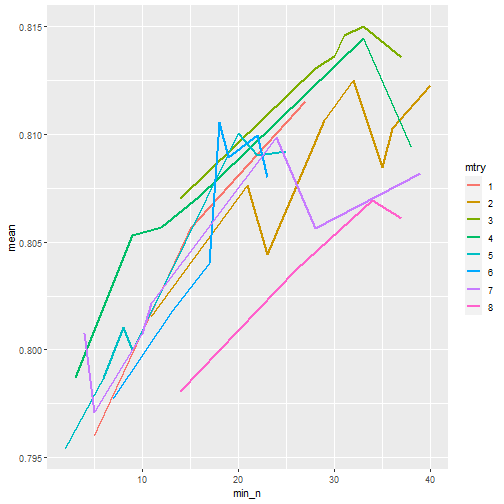
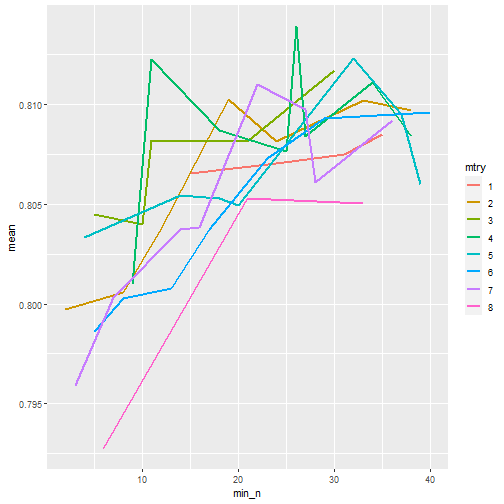
seed

diff --git a/DataMining.html b/DataMining.html
@@ -1335,6 +1335,7 @@ folds
 
 
 ```r
+set.seed(345)
 rf_res &lt;- 
   rf_wflow %&gt;% 
   tune_grid(
@@ -1368,57 +1369,57 @@ rf_res %&gt;%
 &lt;tbody&gt;
   &lt;tr&gt;
    &lt;td style="text-align:right;"&gt; 1 &lt;/td&gt;
-   &lt;td style="text-align:right;"&gt; 5 &lt;/td&gt;
-   &lt;td style="text-align:left;"&gt; roc_auc &lt;/td&gt;
-   &lt;td style="text-align:left;"&gt; binary &lt;/td&gt;
-   &lt;td style="text-align:right;"&gt; 0.7960322 &lt;/td&gt;
-   &lt;td style="text-align:right;"&gt; 10 &lt;/td&gt;
-   &lt;td style="text-align:right;"&gt; 0.0249657 &lt;/td&gt;
-  &lt;/tr&gt;
-  &lt;tr&gt;
-   &lt;td style="text-align:right;"&gt; 1 &lt;/td&gt;
    &lt;td style="text-align:right;"&gt; 15 &lt;/td&gt;
    &lt;td style="text-align:left;"&gt; roc_auc &lt;/td&gt;
    &lt;td style="text-align:left;"&gt; binary &lt;/td&gt;
-   &lt;td style="text-align:right;"&gt; 0.8056520 &lt;/td&gt;
+   &lt;td style="text-align:right;"&gt; 0.8065088 &lt;/td&gt;
    &lt;td style="text-align:right;"&gt; 10 &lt;/td&gt;
-   &lt;td style="text-align:right;"&gt; 0.0231613 &lt;/td&gt;
+   &lt;td style="text-align:right;"&gt; 0.0237202 &lt;/td&gt;
   &lt;/tr&gt;
   &lt;tr&gt;
    &lt;td style="text-align:right;"&gt; 1 &lt;/td&gt;
-   &lt;td style="text-align:right;"&gt; 27 &lt;/td&gt;
+   &lt;td style="text-align:right;"&gt; 24 &lt;/td&gt;
    &lt;td style="text-align:left;"&gt; roc_auc &lt;/td&gt;
    &lt;td style="text-align:left;"&gt; binary &lt;/td&gt;
-   &lt;td style="text-align:right;"&gt; 0.8115614 &lt;/td&gt;
+   &lt;td style="text-align:right;"&gt; 0.8070351 &lt;/td&gt;
    &lt;td style="text-align:right;"&gt; 10 &lt;/td&gt;
-   &lt;td style="text-align:right;"&gt; 0.0255542 &lt;/td&gt;
+   &lt;td style="text-align:right;"&gt; 0.0252532 &lt;/td&gt;
+  &lt;/tr&gt;
+  &lt;tr&gt;
+   &lt;td style="text-align:right;"&gt; 1 &lt;/td&gt;
+   &lt;td style="text-align:right;"&gt; 31 &lt;/td&gt;
+   &lt;td style="text-align:left;"&gt; roc_auc &lt;/td&gt;
+   &lt;td style="text-align:left;"&gt; binary &lt;/td&gt;
+   &lt;td style="text-align:right;"&gt; 0.8075029 &lt;/td&gt;
+   &lt;td style="text-align:right;"&gt; 10 &lt;/td&gt;
+   &lt;td style="text-align:right;"&gt; 0.0256784 &lt;/td&gt;
+  &lt;/tr&gt;
+  &lt;tr&gt;
+   &lt;td style="text-align:right;"&gt; 1 &lt;/td&gt;
+   &lt;td style="text-align:right;"&gt; 35 &lt;/td&gt;
+   &lt;td style="text-align:left;"&gt; roc_auc &lt;/td&gt;
+   &lt;td style="text-align:left;"&gt; binary &lt;/td&gt;
+   &lt;td style="text-align:right;"&gt; 0.8085029 &lt;/td&gt;
+   &lt;td style="text-align:right;"&gt; 10 &lt;/td&gt;
+   &lt;td style="text-align:right;"&gt; 0.0249562 &lt;/td&gt;
   &lt;/tr&gt;
   &lt;tr&gt;
    &lt;td style="text-align:right;"&gt; 2 &lt;/td&gt;
-   &lt;td style="text-align:right;"&gt; 11 &lt;/td&gt;
+   &lt;td style="text-align:right;"&gt; 2 &lt;/td&gt;
    &lt;td style="text-align:left;"&gt; roc_auc &lt;/td&gt;
    &lt;td style="text-align:left;"&gt; binary &lt;/td&gt;
-   &lt;td style="text-align:right;"&gt; 0.8015409 &lt;/td&gt;
+   &lt;td style="text-align:right;"&gt; 0.7997222 &lt;/td&gt;
    &lt;td style="text-align:right;"&gt; 10 &lt;/td&gt;
-   &lt;td style="text-align:right;"&gt; 0.0236047 &lt;/td&gt;
+   &lt;td style="text-align:right;"&gt; 0.0245894 &lt;/td&gt;
   &lt;/tr&gt;
   &lt;tr&gt;
    &lt;td style="text-align:right;"&gt; 2 &lt;/td&gt;
-   &lt;td style="text-align:right;"&gt; 21 &lt;/td&gt;
+   &lt;td style="text-align:right;"&gt; 8 &lt;/td&gt;
    &lt;td style="text-align:left;"&gt; roc_auc &lt;/td&gt;
    &lt;td style="text-align:left;"&gt; binary &lt;/td&gt;
-   &lt;td style="text-align:right;"&gt; 0.8076257 &lt;/td&gt;
+   &lt;td style="text-align:right;"&gt; 0.8005877 &lt;/td&gt;
    &lt;td style="text-align:right;"&gt; 10 &lt;/td&gt;
-   &lt;td style="text-align:right;"&gt; 0.0224453 &lt;/td&gt;
-  &lt;/tr&gt;
-  &lt;tr&gt;
-   &lt;td style="text-align:right;"&gt; 2 &lt;/td&gt;
-   &lt;td style="text-align:right;"&gt; 23 &lt;/td&gt;
-   &lt;td style="text-align:left;"&gt; roc_auc &lt;/td&gt;
-   &lt;td style="text-align:left;"&gt; binary &lt;/td&gt;
-   &lt;td style="text-align:right;"&gt; 0.8044561 &lt;/td&gt;
-   &lt;td style="text-align:right;"&gt; 10 &lt;/td&gt;
-   &lt;td style="text-align:right;"&gt; 0.0238093 &lt;/td&gt;
+   &lt;td style="text-align:right;"&gt; 0.0231326 &lt;/td&gt;
   &lt;/tr&gt;
 &lt;/tbody&gt;
 &lt;/table&gt;
@@ -1459,49 +1460,49 @@ rf_res %&gt;%
  &lt;/thead&gt;
 &lt;tbody&gt;
   &lt;tr&gt;
-   &lt;td style="text-align:right;"&gt; 3 &lt;/td&gt;
-   &lt;td style="text-align:right;"&gt; 33 &lt;/td&gt;
+   &lt;td style="text-align:right;"&gt; 4 &lt;/td&gt;
+   &lt;td style="text-align:right;"&gt; 26 &lt;/td&gt;
    &lt;td style="text-align:left;"&gt; roc_auc &lt;/td&gt;
    &lt;td style="text-align:left;"&gt; binary &lt;/td&gt;
-   &lt;td style="text-align:right;"&gt; 0.8150175 &lt;/td&gt;
+   &lt;td style="text-align:right;"&gt; 0.8138830 &lt;/td&gt;
    &lt;td style="text-align:right;"&gt; 10 &lt;/td&gt;
-   &lt;td style="text-align:right;"&gt; 0.0221805 &lt;/td&gt;
+   &lt;td style="text-align:right;"&gt; 0.0215681 &lt;/td&gt;
   &lt;/tr&gt;
   &lt;tr&gt;
-   &lt;td style="text-align:right;"&gt; 3 &lt;/td&gt;
-   &lt;td style="text-align:right;"&gt; 31 &lt;/td&gt;
+   &lt;td style="text-align:right;"&gt; 5 &lt;/td&gt;
+   &lt;td style="text-align:right;"&gt; 32 &lt;/td&gt;
    &lt;td style="text-align:left;"&gt; roc_auc &lt;/td&gt;
    &lt;td style="text-align:left;"&gt; binary &lt;/td&gt;
-   &lt;td style="text-align:right;"&gt; 0.8146023 &lt;/td&gt;
+   &lt;td style="text-align:right;"&gt; 0.8122982 &lt;/td&gt;
    &lt;td style="text-align:right;"&gt; 10 &lt;/td&gt;
-   &lt;td style="text-align:right;"&gt; 0.0225997 &lt;/td&gt;
+   &lt;td style="text-align:right;"&gt; 0.0220980 &lt;/td&gt;
   &lt;/tr&gt;
   &lt;tr&gt;
    &lt;td style="text-align:right;"&gt; 4 &lt;/td&gt;
-   &lt;td style="text-align:right;"&gt; 33 &lt;/td&gt;
+   &lt;td style="text-align:right;"&gt; 11 &lt;/td&gt;
    &lt;td style="text-align:left;"&gt; roc_auc &lt;/td&gt;
    &lt;td style="text-align:left;"&gt; binary &lt;/td&gt;
-   &lt;td style="text-align:right;"&gt; 0.8144678 &lt;/td&gt;
+   &lt;td style="text-align:right;"&gt; 0.8122544 &lt;/td&gt;
    &lt;td style="text-align:right;"&gt; 10 &lt;/td&gt;
-   &lt;td style="text-align:right;"&gt; 0.0214826 &lt;/td&gt;
+   &lt;td style="text-align:right;"&gt; 0.0201052 &lt;/td&gt;
   &lt;/tr&gt;
   &lt;tr&gt;
    &lt;td style="text-align:right;"&gt; 3 &lt;/td&gt;
    &lt;td style="text-align:right;"&gt; 30 &lt;/td&gt;
    &lt;td style="text-align:left;"&gt; roc_auc &lt;/td&gt;
    &lt;td style="text-align:left;"&gt; binary &lt;/td&gt;
-   &lt;td style="text-align:right;"&gt; 0.8136287 &lt;/td&gt;
+   &lt;td style="text-align:right;"&gt; 0.8116608 &lt;/td&gt;
    &lt;td style="text-align:right;"&gt; 10 &lt;/td&gt;
-   &lt;td style="text-align:right;"&gt; 0.0221184 &lt;/td&gt;
+   &lt;td style="text-align:right;"&gt; 0.0212556 &lt;/td&gt;
   &lt;/tr&gt;
   &lt;tr&gt;
-   &lt;td style="text-align:right;"&gt; 3 &lt;/td&gt;
-   &lt;td style="text-align:right;"&gt; 37 &lt;/td&gt;
+   &lt;td style="text-align:right;"&gt; 4 &lt;/td&gt;
+   &lt;td style="text-align:right;"&gt; 34 &lt;/td&gt;
    &lt;td style="text-align:left;"&gt; roc_auc &lt;/td&gt;
    &lt;td style="text-align:left;"&gt; binary &lt;/td&gt;
-   &lt;td style="text-align:right;"&gt; 0.8135702 &lt;/td&gt;
+   &lt;td style="text-align:right;"&gt; 0.8111023 &lt;/td&gt;
    &lt;td style="text-align:right;"&gt; 10 &lt;/td&gt;
-   &lt;td style="text-align:right;"&gt; 0.0233327 &lt;/td&gt;
+   &lt;td style="text-align:right;"&gt; 0.0222965 &lt;/td&gt;
   &lt;/tr&gt;
 &lt;/tbody&gt;
 &lt;/table&gt;
@@ -1530,8 +1531,8 @@ best_rf
  &lt;/thead&gt;
 &lt;tbody&gt;
   &lt;tr&gt;
-   &lt;td style="text-align:right;"&gt; 3 &lt;/td&gt;
-   &lt;td style="text-align:right;"&gt; 33 &lt;/td&gt;
+   &lt;td style="text-align:right;"&gt; 4 &lt;/td&gt;
+   &lt;td style="text-align:right;"&gt; 26 &lt;/td&gt;
   &lt;/tr&gt;
 &lt;/tbody&gt;
 &lt;/table&gt;
@@ -1564,9 +1565,9 @@ final_wflow
 ## Random Forest Model Specification (classification)
 ## 
 ## Main Arguments:
-##   mtry = 3
+##   mtry = 4
 ##   trees = 1000
-##   min_n = 33
+##   min_n = 26
 ## 
 ## Engine-Specific Arguments:
 ##   importance = permutation
@@ -1602,17 +1603,17 @@ final_rf_model
 ## Ranger result
 ## 
 ## Call:
-##  ranger::ranger(formula = formula, data = data, mtry = ~3L, num.trees = ~1000,      min.node.size = ~33L, importance = ~"permutation", num.threads = 1,      verbose = FALSE, seed = sample.int(10^5, 1), probability = TRUE) 
+##  ranger::ranger(formula = formula, data = data, mtry = ~4L, num.trees = ~1000,      min.node.size = ~26L, importance = ~"permutation", num.threads = 1,      verbose = FALSE, seed = sample.int(10^5, 1), probability = TRUE) 
 ## 
 ## Type:                             Probability estimation 
 ## Number of trees:                  1000 
 ## Sample size:                      295 
 ## Number of independent variables:  8 
-## Mtry:                             3 
-## Target node size:                 33 
+## Mtry:                             4 
+## Target node size:                 26 
 ## Variable importance mode:         permutation 
 ## Splitrule:                        gini 
-## OOB prediction error (Brier s.):  0.1564792
+## OOB prediction error (Brier s.):  0.1597537
 ```
 
 ---
@@ -1762,33 +1763,33 @@ rf_pred
  &lt;/thead&gt;
 &lt;tbody&gt;
   &lt;tr&gt;
-   &lt;td style="text-align:right;"&gt; 0.3585814 &lt;/td&gt;
-   &lt;td style="text-align:right;"&gt; 0.6414186 &lt;/td&gt;
+   &lt;td style="text-align:right;"&gt; 0.4104149 &lt;/td&gt;
+   &lt;td style="text-align:right;"&gt; 0.5895851 &lt;/td&gt;
    &lt;td style="text-align:left;"&gt; pos &lt;/td&gt;
   &lt;/tr&gt;
   &lt;tr&gt;
-   &lt;td style="text-align:right;"&gt; 0.5201628 &lt;/td&gt;
-   &lt;td style="text-align:right;"&gt; 0.4798372 &lt;/td&gt;
+   &lt;td style="text-align:right;"&gt; 0.5379686 &lt;/td&gt;
+   &lt;td style="text-align:right;"&gt; 0.4620314 &lt;/td&gt;
    &lt;td style="text-align:left;"&gt; pos &lt;/td&gt;
   &lt;/tr&gt;
   &lt;tr&gt;
-   &lt;td style="text-align:right;"&gt; 0.6569625 &lt;/td&gt;
-   &lt;td style="text-align:right;"&gt; 0.3430375 &lt;/td&gt;
+   &lt;td style="text-align:right;"&gt; 0.6611107 &lt;/td&gt;
+   &lt;td style="text-align:right;"&gt; 0.3388893 &lt;/td&gt;
    &lt;td style="text-align:left;"&gt; neg &lt;/td&gt;
   &lt;/tr&gt;
   &lt;tr&gt;
-   &lt;td style="text-align:right;"&gt; 0.1466921 &lt;/td&gt;
-   &lt;td style="text-align:right;"&gt; 0.8533079 &lt;/td&gt;
+   &lt;td style="text-align:right;"&gt; 0.1695170 &lt;/td&gt;
+   &lt;td style="text-align:right;"&gt; 0.8304830 &lt;/td&gt;
    &lt;td style="text-align:left;"&gt; pos &lt;/td&gt;
   &lt;/tr&gt;
   &lt;tr&gt;
-   &lt;td style="text-align:right;"&gt; 0.1084643 &lt;/td&gt;
-   &lt;td style="text-align:right;"&gt; 0.8915357 &lt;/td&gt;
+   &lt;td style="text-align:right;"&gt; 0.1117714 &lt;/td&gt;
+   &lt;td style="text-align:right;"&gt; 0.8882286 &lt;/td&gt;
    &lt;td style="text-align:left;"&gt; pos &lt;/td&gt;
   &lt;/tr&gt;
   &lt;tr&gt;
-   &lt;td style="text-align:right;"&gt; 0.1840272 &lt;/td&gt;
-   &lt;td style="text-align:right;"&gt; 0.8159728 &lt;/td&gt;
+   &lt;td style="text-align:right;"&gt; 0.1496254 &lt;/td&gt;
+   &lt;td style="text-align:right;"&gt; 0.8503746 &lt;/td&gt;
    &lt;td style="text-align:left;"&gt; pos &lt;/td&gt;
   &lt;/tr&gt;
 &lt;/tbody&gt;
@@ -1826,7 +1827,7 @@ rf_pred %&gt;%
   &lt;tr&gt;
    &lt;td style="text-align:left;"&gt; roc_auc &lt;/td&gt;
    &lt;td style="text-align:left;"&gt; binary &lt;/td&gt;
-   &lt;td style="text-align:right;"&gt; 0.9129808 &lt;/td&gt;
+   &lt;td style="text-align:right;"&gt; 0.9120192 &lt;/td&gt;
   &lt;/tr&gt;
 &lt;/tbody&gt;
 &lt;/table&gt;
@@ -1848,14 +1849,14 @@ final_rf_model %&gt;%
 ## # A tibble: 8 x 2
 ##   Variable Importance
 ##   &lt;chr&gt;         &lt;dbl&gt;
-## 1 glucose    0.0463  
-## 2 insulin    0.0193  
-## 3 age        0.0190  
-## 4 mass       0.00984 
-## 5 pregnant   0.00454 
-## 6 triceps    0.00362 
-## 7 pedigree   0.00222 
-## 8 pressure  -0.000556
+## 1 glucose    0.0490  
+## 2 age        0.0197  
+## 3 insulin    0.0175  
+## 4 mass       0.0106  
+## 5 pregnant   0.00584 
+## 6 pedigree   0.00295 
+## 7 triceps    0.00209 
+## 8 pressure  -0.000495
 ```
 ---
 ## Step 8 解釋模型
